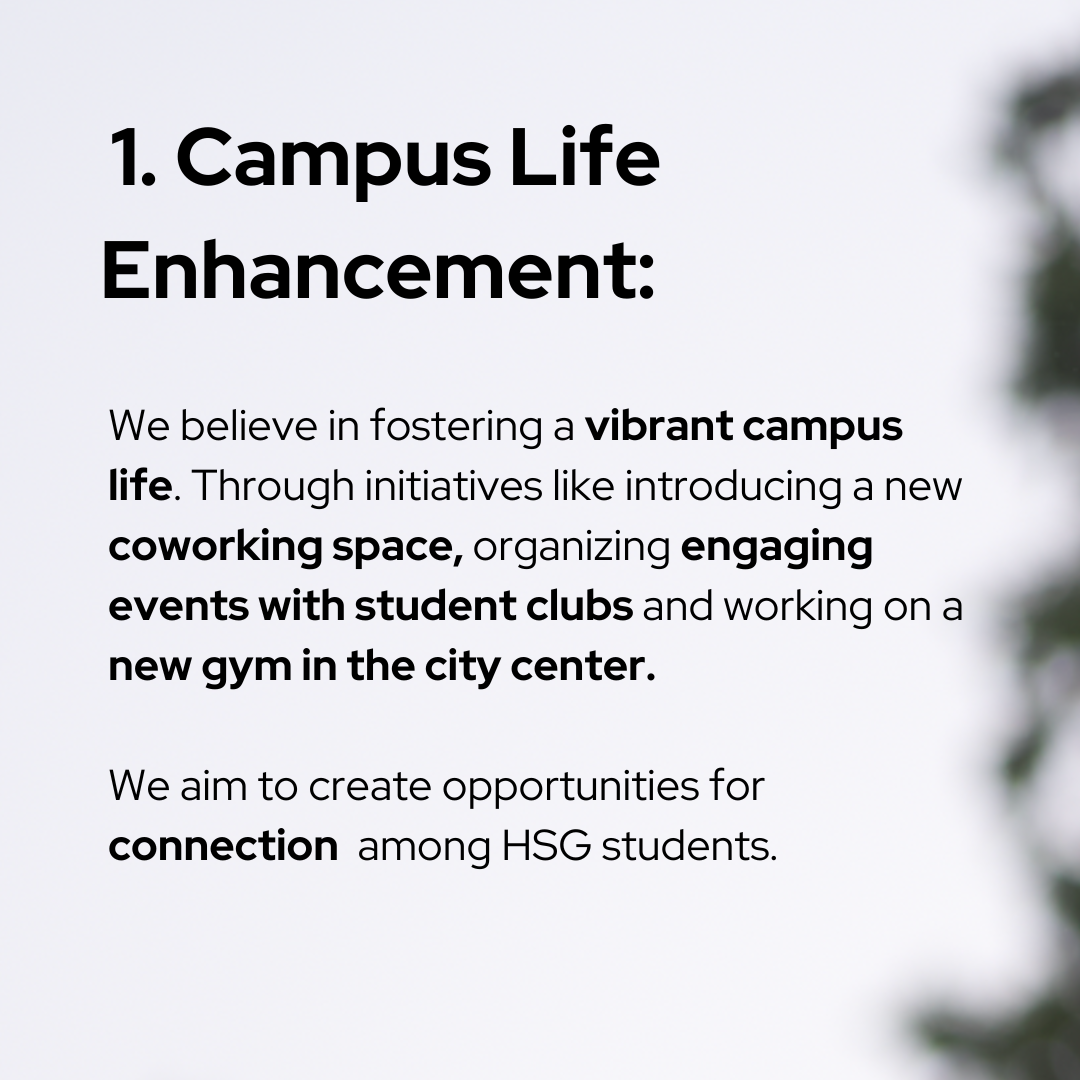
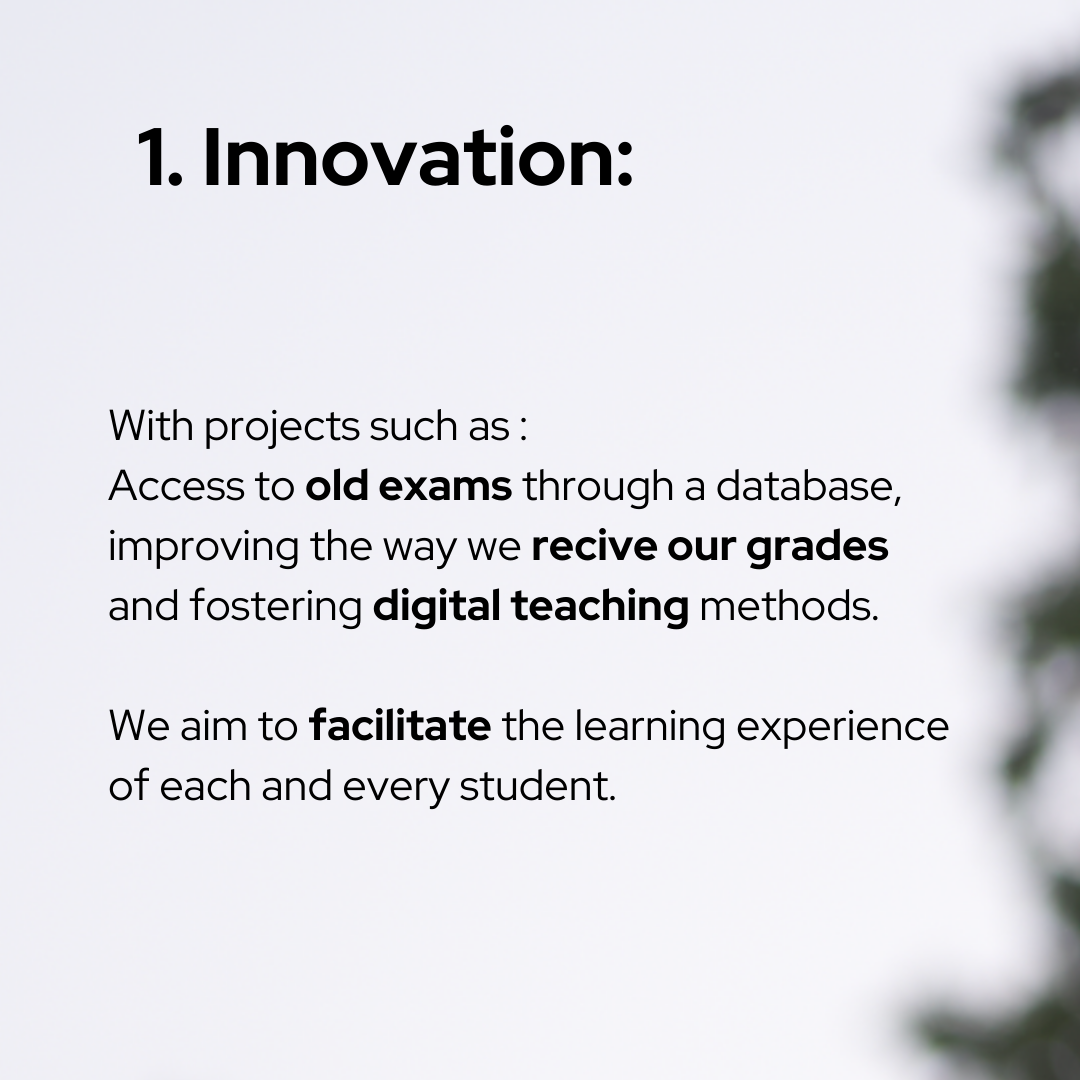
final changes

Changed region(s): [[0.0917, 0.3667, 0.8861, 0.825], [0.0917, 0.0917, 0.6111, 0.1833], [0.0917, 0.2139, 0.6111, 0.275]]

diff --git a/components/data.js b/components/data.js
@@ -35,34 +35,34 @@ const benefitOne = {
 
 const benefitTwo = {
   title: "WHAT WE WANT TO ACHIEVE",
-  desc: "Over the last year there has been a high demand for change and innovation. We have listened to your feedback and have come up with a list of benefits that we want to achieve.",
   image: benefitTwoImg,
   bullets: [
     {
-    title: "New co-working space on campus (in building 05)",
-      desc: "The SHSG is moving to building 05 and we want to make it more accesibly to students. This would be archived by creating a co-working space in the same building. Additonally there will be an Open-Door policy for the SHSG office so that every student can come and talk to us.",
-      icon: <FaceSmileIcon />,
-    }, 
-    {
-      title: "Increased GYM capacity with a new GYM in the city centre",
-      desc: "For many years students have been trying to increase the gym capacity. There has been plans for a new gym in the city centre. We want to give this project the necessary attention to make it a reality.",
-      icon: <DevicePhoneMobileIcon />,
+      title: "Improvement of the Return of Grades System in cooperation with the University.",
+      desc: "We recive our grades very late compared to other Universities and Compass often starts slowing down when we recive them. We want to improve this in cooperation with the University. Making this process more timely and more student friendly.",
+      icon: <AdjustmentsHorizontalIcon />, 
     },
     {
       title: "Exam database with past exams",
-      desc: "ETH has made Old exams accessible to their students. So why not us? We want to create a database with past exams that is accesible for every student.",
+      desc: "Other universities have made exams accessible to their students. So why not us? We want to create a database with old exams from students for students.",
       icon: <CursorArrowRaysIcon />,
     },
     {
+    title: "New co-working space on campus (in building 05)",
+      desc: "The SHSG is moving to building 05 and we want to have an accessible space for all students. This will be achieved by creating a co-working space in the same building. Additionally there will be an Open-Door policy for the SHSG office so that every student can come and talk to us.",
+      icon: <FaceSmileIcon />,
+    }, 
+    {
       title: "Expanded Mensa capacity by allocating additional space",
-      desc: "The Mensa is often overcrowded. We want to expand the Mensa capacity by allocating additional space.",
+      desc: "The Mensa is often overcrowded. We want to work with the university to expand the Mensa capacity by allocating additional space in building 07.",
       icon: <SunIcon />,
     },
     {
-      title: "Improvement of the Return of Grades System in cooperation with the University.",
-      desc: "The current system has some flaws. We recive our grades very late compared to other University's and Compass often starts slowing down we we recive them. We want to improve the system in cooperation with the University. Making this process more timely and less painful for the students.",
-      icon: <AdjustmentsHorizontalIcon />, 
+      title: "Increased GYM capacity with a new GYM in the city centre",
+      desc: "For many years students have been trying to increase the gym capacity. There have been plans for a new gym in the city centre. We want to give this project the necessary attention to make it a reality.",
+      icon: <DevicePhoneMobileIcon />,
     },
+    
   ],
 };
 

diff --git a/components/hero.js b/components/hero.js
@@ -13,17 +13,18 @@ const Hero = () => {
             </h1>
             <p className="py-5 text-xl leading-normal text-gray-500 lg:text-xl xl:text-2xl dark:text-gray-300">
             Hi there !
-            We hold certain values close to our hearts. They will guide our actions for the upcoming year. This Website serves as a Platform for us to share our values and to get your feedback during the campaign. We are looking forward to get to know all of you.
+            We have many ideas for cool projects for the upcoming year. This Website serves as a Platform for us to share our values and to get your feedback during the campaign. We look forward to get to know all of you.
             </p>
 
             <div className="flex flex-col items-start space-y-3 sm:space-x-4 sm:space-y-0 sm:items-center sm:flex-row">
               <a
-                href="https://web3templates.com/templates/nextly-landing-page-template-for-startups"
+                href="https://padlet.com/militilisa/lisa-nicolas-for-shsg-presidency-le2y01xtt1bfombw"
                 target="_blank"
                 rel="noopener"
                 className="px-8 py-4 text-lg font-medium text-center text-white bg-green-900 rounded-md ">
-                Vote Now !
+                Give Feedback !
               </a>
+              {/* 
               <a
                 href="https://padlet.com/militilisa/lisa-nicolas-for-shsg-presidency-le2y01xtt1bfombw"
                 target="_blank"
@@ -31,6 +32,7 @@ const Hero = () => {
                 className="flex items-center space-x-2 text-gray-500 dark:text-gray-400">
                 <span> Give Feedback</span>
               </a>
+              */}
             </div>
           </div>
         </div>

diff --git a/components/cta.js b/components/cta.js
@@ -15,11 +15,11 @@ const Cta = () => {
         </div>
         <div className="flex-shrink-0 w-full text-center lg:w-auto">
           <a
-            href="https://github.com/web3templates"
+            href="https://padlet.com/militilisa/lisa-nicolas-for-shsg-presidency-le2y01xtt1bfombw"
             target="_blank"
             rel="noopener"
             className="inline-block py-3 mx-auto text-lg font-medium text-center text-green-900 bg-white rounded-md px-7 lg:px-10 lg:py-5 ">
-            Vote Now !
+            Give Feedback !
           </a>
         </div>
       </div>

diff --git a/pages/index.js b/pages/index.js
@@ -18,10 +18,10 @@ const Home = () => {
   return (
     <>
       <Head>
-        <title>Campaign Website</title>
+        <title>Vote for Lisa & Nicolas</title>
         <meta
           name="description"
-          content="simple landing page for the shsg campaign"
+          content="Let's make a difference together. Vote for Lisa & Nicolas for SHSG Presidency."
         />
         <link rel="icon" href="/favicon.ico" />
       </Head>
